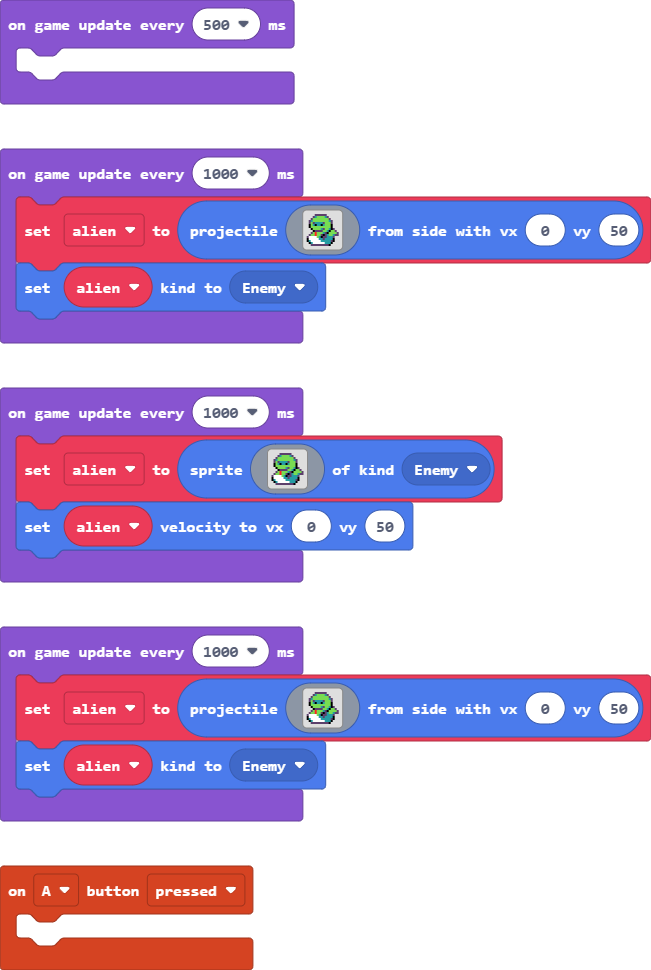
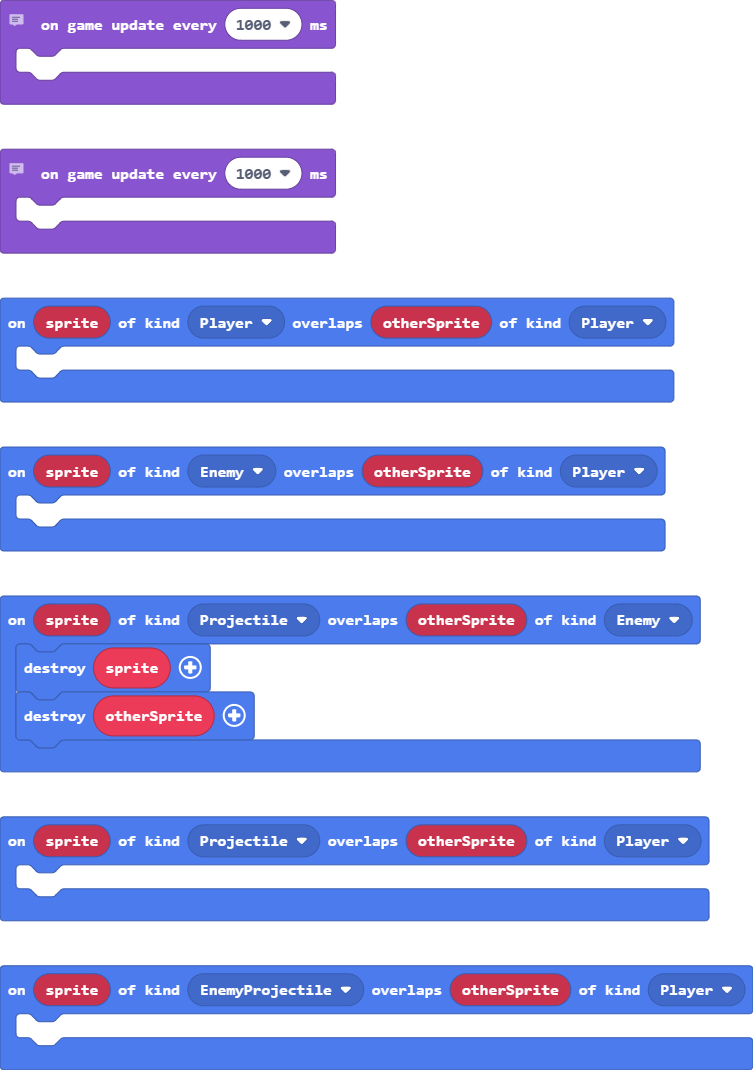
Update pxt.json, main.blocks, main.ts

diff --git a/main.ts b/main.ts
@@ -1,72 +1,36 @@
 namespace SpriteKind {
     export const Ship = SpriteKind.create()
+    export const EnemyProjectile = SpriteKind.create()
 }
-let alien: Sprite = null
+sprites.onOverlap(SpriteKind.EnemyProjectile, SpriteKind.Player, function (sprite, otherSprite) {
+	
+})
 controller.A.onEvent(ControllerButtonEvent.Pressed, function () {
 	
 })
+sprites.onOverlap(SpriteKind.Projectile, SpriteKind.Player, function (sprite, otherSprite) {
+	
+})
+sprites.onOverlap(SpriteKind.Enemy, SpriteKind.Player, function (sprite, otherSprite) {
+	
+})
+sprites.onOverlap(SpriteKind.Player, SpriteKind.Player, function (sprite, otherSprite) {
+	
+})
+sprites.onOverlap(SpriteKind.Projectile, SpriteKind.Enemy, function (sprite, otherSprite) {
+    sprites.destroy(sprite)
+    sprites.destroy(otherSprite)
+})
+// 1st way to write this
 game.onUpdateInterval(1000, function () {
-    alien = sprites.createProjectileFromSide(img`
-        . . . . c c c c c c . . . . . . 
-        . . . c 6 7 7 7 7 6 c . . . . . 
-        . . c 7 7 7 7 7 7 7 7 c . . . . 
-        . c 6 7 7 7 7 7 7 7 7 6 c . . . 
-        . c 7 c 6 6 6 6 c 7 7 7 c . . . 
-        . f 7 6 f 6 6 f 6 7 7 7 f . . . 
-        . f 7 7 7 7 7 7 7 7 7 7 f . . . 
-        . . f 7 7 7 7 6 c 7 7 6 f c . . 
-        . . . f c c c c 7 7 6 f 7 7 c . 
-        . . c 7 2 7 7 7 6 c f 7 7 7 7 c 
-        . c 7 7 2 7 7 c f c 6 7 7 6 c c 
-        c 1 1 1 1 7 6 f c c 6 6 6 c . . 
-        f 1 1 1 1 1 6 6 c 6 6 6 6 f . . 
-        f 6 1 1 1 1 1 6 6 6 6 6 c f . . 
-        . f 6 1 1 1 1 1 1 6 6 6 f . . . 
-        . . c c c c c c c c c f . . . . 
-        `, 0, 50)
-    alien.setKind(SpriteKind.Enemy)
+	
+})
+// 2nd way to write this
+game.onUpdateInterval(1000, function () {
+	
 })
 game.onUpdateInterval(1000, function () {
-    alien = sprites.create(img`
-        . . . . c c c c c c . . . . . . 
-        . . . c 6 7 7 7 7 6 c . . . . . 
-        . . c 7 7 7 7 7 7 7 7 c . . . . 
-        . c 6 7 7 7 7 7 7 7 7 6 c . . . 
-        . c 7 c 6 6 6 6 c 7 7 7 c . . . 
-        . f 7 6 f 6 6 f 6 7 7 7 f . . . 
-        . f 7 7 7 7 7 7 7 7 7 7 f . . . 
-        . . f 7 7 7 7 6 c 7 7 6 f c . . 
-        . . . f c c c c 7 7 6 f 7 7 c . 
-        . . c 7 2 7 7 7 6 c f 7 7 7 7 c 
-        . c 7 7 2 7 7 c f c 6 7 7 6 c c 
-        c 1 1 1 1 7 6 f c c 6 6 6 c . . 
-        f 1 1 1 1 1 6 6 c 6 6 6 6 f . . 
-        f 6 1 1 1 1 1 6 6 6 6 6 c f . . 
-        . f 6 1 1 1 1 1 1 6 6 6 f . . . 
-        . . c c c c c c c c c f . . . . 
-        `, SpriteKind.Enemy)
-    alien.setVelocity(0, 50)
-})
-game.onUpdateInterval(1000, function () {
-    alien = sprites.createProjectileFromSide(img`
-        . . . . c c c c c c . . . . . . 
-        . . . c 6 7 7 7 7 6 c . . . . . 
-        . . c 7 7 7 7 7 7 7 7 c . . . . 
-        . c 6 7 7 7 7 7 7 7 7 6 c . . . 
-        . c 7 c 6 6 6 6 c 7 7 7 c . . . 
-        . f 7 6 f 6 6 f 6 7 7 7 f . . . 
-        . f 7 7 7 7 7 7 7 7 7 7 f . . . 
-        . . f 7 7 7 7 6 c 7 7 6 f c . . 
-        . . . f c c c c 7 7 6 f 7 7 c . 
-        . . c 7 2 7 7 7 6 c f 7 7 7 7 c 
-        . c 7 7 2 7 7 c f c 6 7 7 6 c c 
-        c 1 1 1 1 7 6 f c c 6 6 6 c . . 
-        f 1 1 1 1 1 6 6 c 6 6 6 6 f . . 
-        f 6 1 1 1 1 1 6 6 6 6 6 c f . . 
-        . f 6 1 1 1 1 1 1 6 6 6 f . . . 
-        . . c c c c c c c c c f . . . . 
-        `, 0, 50)
-    alien.setKind(SpriteKind.Enemy)
+	
 })
 game.onUpdateInterval(500, function () {
 	
